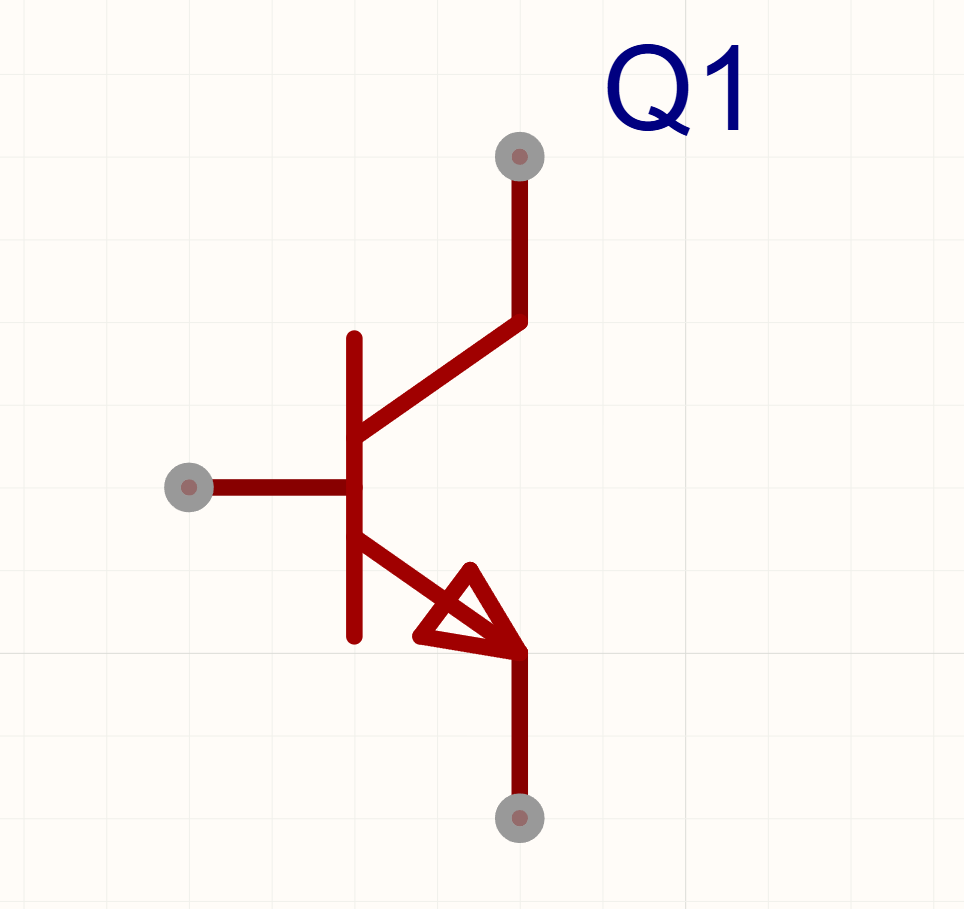
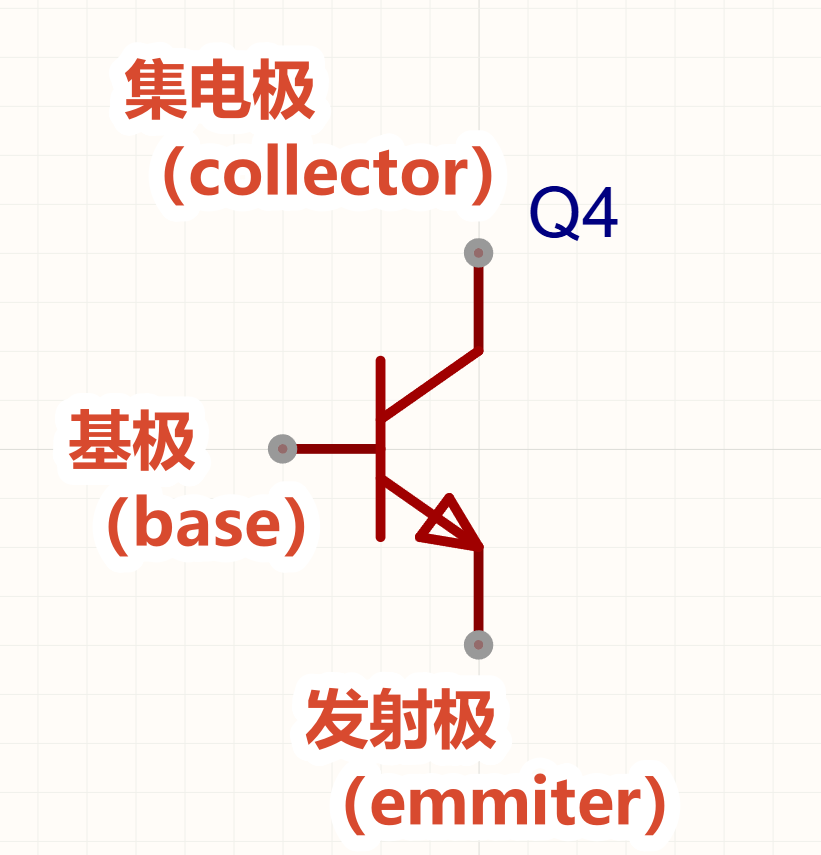
Add files via upload

Changed region(s): [[0.0609, 0.0608, 0.8222, 0.9731], [0.609, 0.0304, 0.7917, 0.152], [0.6395, 0.2129, 0.7613, 0.3041]]

diff --git a/电路组学习目录/3 半导体元件.md b/电路组学习目录/3 半导体元件.md
@@ -25,7 +25,7 @@
 ##### 开关二极管数据手册中的特性曲线
 ![图3-1-4 开关二极管特性曲线](pictures/3-1-4.png)
 - [截止区]：偏置电压未达到开启电压（该二极管开启电压是0.4V），二极管未开启，几乎无电流
-- [线性区]：偏置电压超过开启电压，二极管正向导通，di/du的值几乎不变电流随电压上升的曲线接近一条直线，所以线性区内二极管的性质与电阻相似，可看作一个理想的二极管串联一个电阻。
+- [线性区]：偏置电压超过开启电压，二极管正向导通，di/du的值几乎不变，电流随电压上升的曲线接近一条直线，所以线性区内二极管的性质与电阻相似，可看作一个理想的二极管串联一个电阻。
 - [饱和区]：电流大到一定程度时，超过了二极管的载流能力，电流难以继续升高，电压电流的关系不再线性。
 ##### 稳压二极管数据手册中的特性曲线
 ![图3-1-5 稳压二极管特性曲线](pictures/3-1-5.png)
@@ -69,22 +69,36 @@
 # 3.2 三极管
 ### 三极管的功能与结构
 ![图3-2-1 三极管](pictures/3-2-1.png)
-- 
+- 三极管有三个引脚，分别是[基极b]，[集电极c]，[发射极e]。
+- 基极流向发射极的电流大小Ibe控制着集电极和发射极之间的通断
+- 图中是最常见的npn型三极管，ce之间能通过的最大电流Ice由be之间的电流Ibe控制，关系是[Ice=βIbe]，其中三极管的[放大倍数β]是个固定的属性，只由三极管的型号和温度决定。
+- 由[Ice=βIbe]可见三极管并非一个理想的由电流控制的开关，三极管实际上是一个可以放大电流的元件，只要给三极管的ce极之间施加一个恒定的电压，三极管就能满足将输入给基极的电流Ibe放大β倍变成Ice。
+- [放大倍数β]是一个相当大的数字，一般在几百到几千的量级。
 ### 等效电路
 ![图3-2-2 三极管等效电路](pictures/3-2-2.png)
-- 
+- 三极管的be极之间相当于一个二极管，npn型三极管中这个二极管是由b指向e的，也就是说控制电流只能由b流向e。
+- be之间的等效二极管也说明了三极管的be之间需要一定的[开启电压]，因为二极管有一定的正向压降，be之间的电压Vbe低于开启电压时，无电流Ibe，三极管未能开启。
+- 在[线性区]（线性区详见三极管的特性曲线）内工作时，三极管的ce极之间相当于一个电阻，电阻随基极电流Ibe增大而减小。
+- 在[饱和区]（饱和区详见三极管的特性曲线）内工作时，三极管的ce极之间相当于一个恒流源，恒流源的电流随基极电流Ibe增大而增大。
 ### 特性曲线
 ![图3-2-3 三极管特性曲线](pictures/3-2-3.png)
-- 
+- [线性区]：be间的等效二极管导通产生电流，ce间导通，ce间的电流未接近饱和电流，此时di/du的值几乎不变，电流随电压上升的曲线接近一条直线，所以线性区内ce间的性质与电阻相似，可看作一个电阻，只不过阻值大小由Ibe决定，Ibe越大，阻值越小。
+- [饱和区]：ce间电流大到一定程度时，超过了三极管ce间的载流能力，电流难以继续升高，电压电流的关系不再线性，直到接近恒流（电压继续升高但是电流几乎不变了）。
 ### npn型三极管与pnp型三极管
 ![图3-2-4 npn型三极管与pnp型三极管](pictures/3-2-4.png)
-- 
+- 图左便是刚才介绍的npn型三极管，但三极管中还有一种不太常见的pnp型三极管，如图右。
+- pnp型三极管与npn型不同的地方在于，他的be间二极管方向是反过来的，也就是说他需要Ibe<0才能开启，其余属性与npn型三极管均类似。
 ### 常见用法-驱动供电电压较高的元件
 ![图3-2-5 三极管驱动其它元件](pictures/3-2-5.png)
-- 
+- 当使用单片机，数字芯片等来控制其它元件时，常因为单片机输出电流不够导致无法正常驱动其它元件，这时我们就需要使用三极管来放大电流。
+- 如上图分别是使用三极管驱动蜂鸣器/LED/继电器的电路，单片机输入给基极一个微小的电流Ibe，三极管将电流Ibe放大β倍变成Ice，放大了上百倍的Ice便能轻松驱动蜂鸣器/LED/继电器等元件。
 ### 常见用法-信号放大电路
 ![图3-2-6 三极管信号放大电路](pictures/3-2-6.png)
-- 
+- 当三极管工作在线性区时，ce之间相当于一个由Ibe控制的可变电阻（记为Rce），Rce与图中R3串联，输出的电压Vout是Vcc经过R3//Rce串联分压后的结果，Vout=(Vcc*Rce)/(Rce+R3)。
+- 假设三极管的be间二极管的正向压降为0.7V，当输入一个电压Vin，Vin产生的Ibe大小为（Vin-0.7V）/R4。
+- Ibe的大小与Vin成正比，Vin增大>>Ibe增大>>Rce减小>>Vout减小，Vin减小>>Ibe减小>>Rce增大>>Vout增大。
+- Vin增大Vout减小，Vin减小Vout增大，同时Vout的大小与Vcc成正比，也就是说该电路起到了反向放大的作用，控制Vcc的大小就能控制放大的倍率。将Vin放大变成了Vout，只不过方向反了过来，大概的关系是Vout=V0-kVin（Vin>0），其中V0是静态工作点，Vin=0时Vout的电压，k是放大倍率，由电路的各种参数决定。
+- 图中示例其实是一个不完整的共射放大电路，作为放大电路他还有很多缺点，比如Vin低于be二极管正向压降时三极管截止，无法放大，输出信号有很大的直流偏置V0，输入信号Vin为负的时候根本无法工作，输出阻抗极高很难驱动大电流应用等等，想要了解更多关于放大电路的可以参阅模拟电路，实际应用中我们更多的是直接使用现成的放大器芯片，而不是自己手搓一个简陋的放大电路，所以分立元件组成的放大电路仅供了解即可。
 ### 常见用法-开漏输出与推挽输出
 ![图3-2-7 三极管开漏输出与推挽输出](pictures/3-2-7.png)
 
